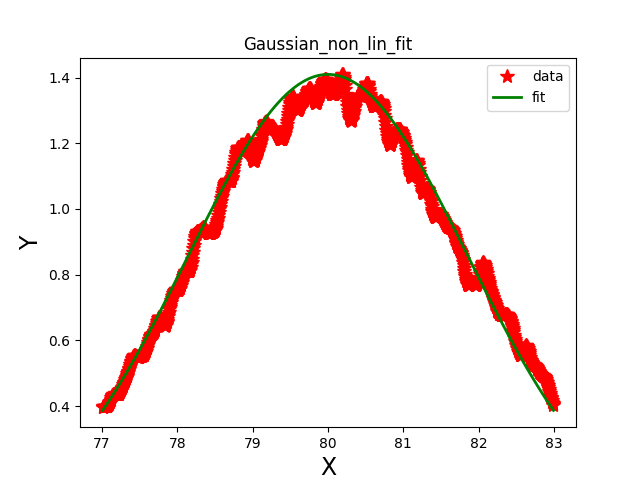
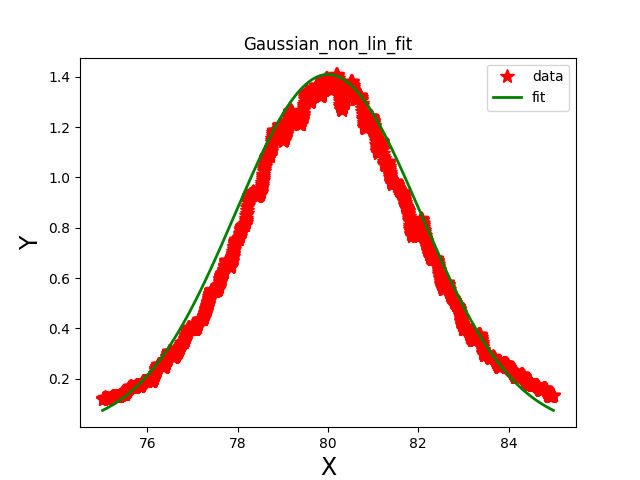
Added the Gaussian non lin fit. Tested and seems to be working fine

diff --git a/Statistics/Test_Routines.cpp b/Statistics/Test_Routines.cpp
@@ -1938,7 +1938,7 @@ void testing::Gaussian_data_fit_test()
 
 	int npts, n_rows, npars = 3, n_cols, indx_max = 0;
 	long idum = (-1011);
-	double spread = 0.1, spctr_max = -500.0, f_max = 0;
+	double spread = 0.01, spctr_max = -500.0, f_max = 0;
 
 	std::vector<std::vector<double>> the_data;
 
@@ -1957,7 +1957,7 @@ void testing::Gaussian_data_fit_test()
 	//ydata = vecut::get_col(the_data, 1);
 
 	for (int i = 0; i < n_rows; i++) {
-		if (the_data[i][0] > 77.0 && the_data[i][0] < 83.0) {
+		if (the_data[i][0] > 75.0 && the_data[i][0] < 85.0) {
 
 			xdata.push_back(the_data[i][0]);
 

diff --git a/Statistics/Plots.py b/Statistics/Plots.py
@@ -84,9 +84,9 @@ if __name__ == '__main__':
     #filename = "Gauss_non_lin_fit.txt"
     #filename = 'Diode_non_lin_fit.txt'
     
-    filename = 'Lorentzian_non_lin_fit.txt'    
-    non_lin_fit_plot(filename)
-    
-    #filename = 'Gaussian_non_lin_fit.txt'
+    #filename = 'Lorentzian_non_lin_fit.txt'    
     #non_lin_fit_plot(filename)
+    
+    filename = 'Gaussian_non_lin_fit.txt'
+    non_lin_fit_plot(filename)
     

diff --git a/Statistics/Main.cpp b/Statistics/Main.cpp
@@ -96,9 +96,9 @@ int main()
 
 	//testing::Lorentzian_data_fit();
 	
-	testing::Lorentzian_data_fit_test();
+	//testing::Lorentzian_data_fit_test();
 
-	//testing::Gaussian_data_fit_test(); 
+	testing::Gaussian_data_fit_test(); 
 	
 	std::cout<<"Press enter to close console\n";
 	std::cin.get(); 
